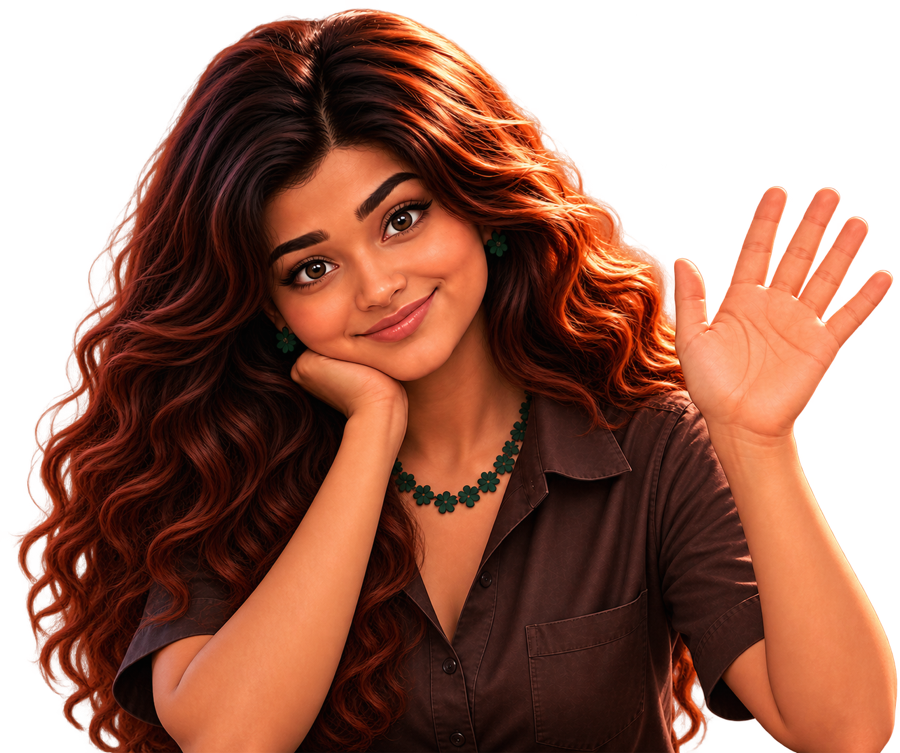
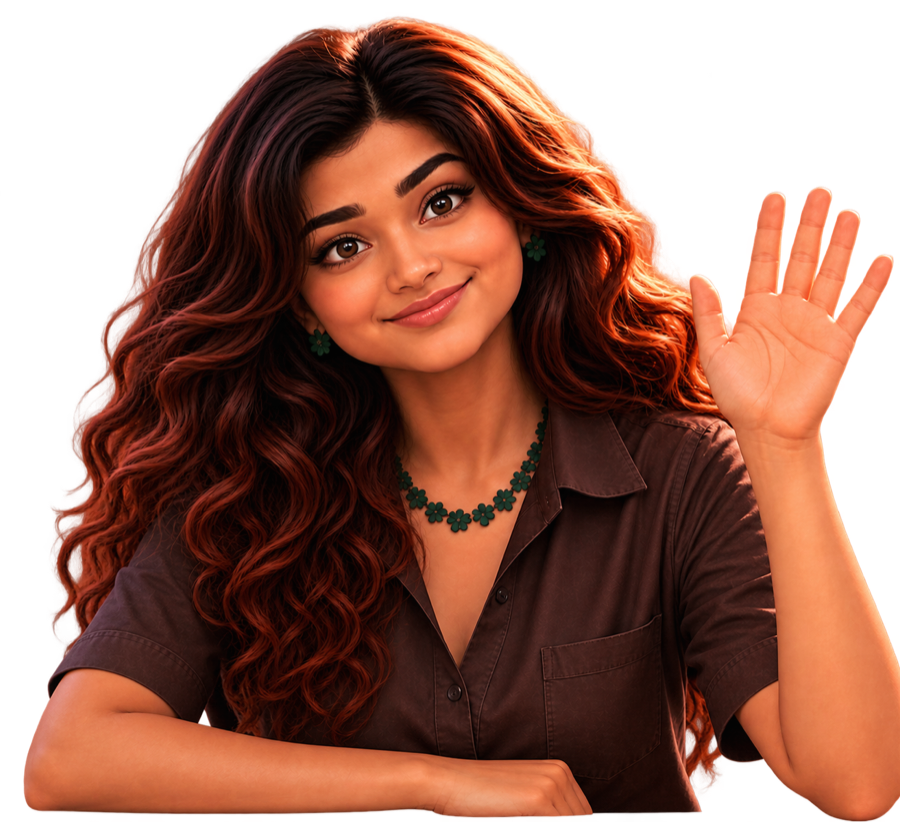
Use the poses that are not cut, anchored on her necklace
You were right that they were already there -- I had picked the wrong ones.
Measuring the alpha along the bottom row of all six: 01, 04 and 06 run off
their own canvas with a thousand pixels sitting on the last row, and 02
with eighty. 03 and 05 end cleanly, as MAIN does. The wave was coming from
04, one of the cut ones.

So the wave is 03 now, which ends on its own, and 05 joins as a fourth
pose. Only the writing drawing still needs the desk raised over it, so the
desk follows a per-pose flag rather than "anything but idle".

Placing them needed a landmark, because these are four different framings
of her and matching bounding boxes would have her sliding around the desk.
Her necklace is in every drawing, rigid and a colour nothing else in the
scene shares, so each pose is placed to put it on the same point in the
room, and scaled so the distance from it to the crown of her head matches.
Measured across the four: 43.41-43.44% across and 37.46-37.52% down. She
does not move.

diff --git a/meet-the-mind.html b/meet-the-mind.html
@@ -111,9 +111,14 @@
      through a breath of blur and half a percent of scale reads as her moving. */
   .pose.on { opacity: 1; transform: scale(1); filter: blur(0); }
 
-  .pose-idle    { --px: 24.786%; --py: 8.813%;  --pw: 35.326%; }
-  .pose-wave    { --px: 23.340%; --py: 9.199%;  --pw: 41.627%; }
-  .pose-writing { --px: 23.340%; --py: 9.199%;  --pw: 41.627%; }
+  /* Every pose is placed so her necklace lands on the same point in the room,
+     and scaled so the distance from it to the crown of her head is the same --
+     a real measurement on her body rather than the middle of a bounding box,
+     which is what stops her jumping around the desk between drawings. */
+  .pose-idle    { --px: 24.786%; --py: 8.8130%; --pw: 35.326%; }
+  .pose-wave    { --px: 21.868%; --py: 8.6909%; --pw: 41.047%; }
+  .pose-writing { --px: 17.099%; --py: 8.9475%; --pw: 45.107%; }
+  .pose-reach   { --px: 18.171%; --py: 8.5674%; --pw: 39.778%; }
 
   /* ---------- the morph canvas ----------
      Sized to the union of every pose's box plus a margin for scatter, rather
@@ -125,14 +130,14 @@
      empty air beside her does not. */
   .morph {
     position: absolute; z-index: 2;
-    left: 20.840%; top: 7.4288%; width: 46.627%; height: 23.1215%;
+    left: 14.599%; top: 7.1815%; width: 50.816%; height: 24.070%;
     pointer-events: none; opacity: 0;
     transition: opacity .18s linear;
   }
   .morph.on { opacity: 1; }
   .morph-hit {
     position: absolute; z-index: 4;
-    left: 23.340%; top: 8.813%; width: 41.627%; height: 20.5%;
+    left: 21.5%; top: 8.6%; width: 34.5%; height: 16.5%;
     pointer-events: auto;
   }
 
@@ -438,6 +443,7 @@
       <img class="pose pose-idle on" id="poseIdle" src="assets/meet/avatar/pose-idle.png" alt="" draggable="false">
       <img class="pose pose-wave" id="poseWave" src="assets/meet/avatar/pose-wave.png" alt="" draggable="false">
       <img class="pose pose-writing" id="poseWriting" src="assets/meet/avatar/pose-writing.png" alt="" draggable="false">
+      <img class="pose pose-reach" id="poseReach" src="assets/meet/avatar/pose-reach.png" alt="" draggable="false">
       <canvas class="morph" id="morphCanvas"></canvas>
     </div>
     <!-- The hover target, cut to where she is rather than to the canvas. It
@@ -675,16 +681,17 @@
       /* left/top/width are the placements already fitted for each drawing; the
          particles inherit them, so the silhouette the particles settle into is
          the same box the PNG then fades up in. No jump between the two. */
-      { id: "idle",    el: document.getElementById("poseIdle"),    L: 0.24786, T: 0.08813, W: 0.35326 },
-      { id: "wave",    el: document.getElementById("poseWave"),    L: 0.23340, T: 0.09199, W: 0.41627 },
-      { id: "writing", el: document.getElementById("poseWriting"), L: 0.23340, T: 0.09199, W: 0.41627 }
+      { id: "idle",    el: document.getElementById("poseIdle"),    L: 0.24786, T: 0.088130, W: 0.35326 },
+      { id: "wave",    el: document.getElementById("poseWave"),    L: 0.21868, T: 0.086909, W: 0.41047 },
+      { id: "writing", el: document.getElementById("poseWriting"), L: 0.17099, T: 0.089475, W: 0.45107, cut: true },
+      { id: "reach",   el: document.getElementById("poseReach"),   L: 0.18171, T: 0.085674, W: 0.39778 }
     ];
 
     /* The canvas box, in cast-width units, matching the CSS above. Everything
        is normalised into this so a resize costs nothing -- the targets are
        fractions of the box, not pixels in it. */
     const CAST_AR = 1685 / 934;
-    const REGION = { x0: 0.20840, y0: 0.134021, w: 0.46627, h: 0.417127 };
+    const REGION = { x0: 0.14599, y0: 0.129560, w: 0.50816, h: 0.434240 };
 
     const COUNT = matchMedia("(max-width: 900px)").matches ? 3000 : 7000;
     const SIZE = 3;                /* css px per particle */
@@ -926,7 +933,7 @@
 
       /* The desk is raised for anything but the idle drawing, because the other
          two run off the bottom of their own canvas. */
-      if (to.id !== "idle") desk.classList.add("on");
+      if (to.cut) desk.classList.add("on");
       canvas.classList.add("on");
       if (from) from.el.classList.remove("on");
 
@@ -952,7 +959,7 @@
           p.x = p.tx; p.y = p.ty; p.r = p.tr; p.g = p.tg; p.b = p.tb;
         }
         current = next; previous = from ? POSES.indexOf(from) : -1;
-        if (to.id === "idle") desk.classList.remove("on");
+        if (!to.cut) desk.classList.remove("on");
         morphing = false; running = false;
         ctx.clearRect(0, 0, canvas.width, canvas.height);
       }
